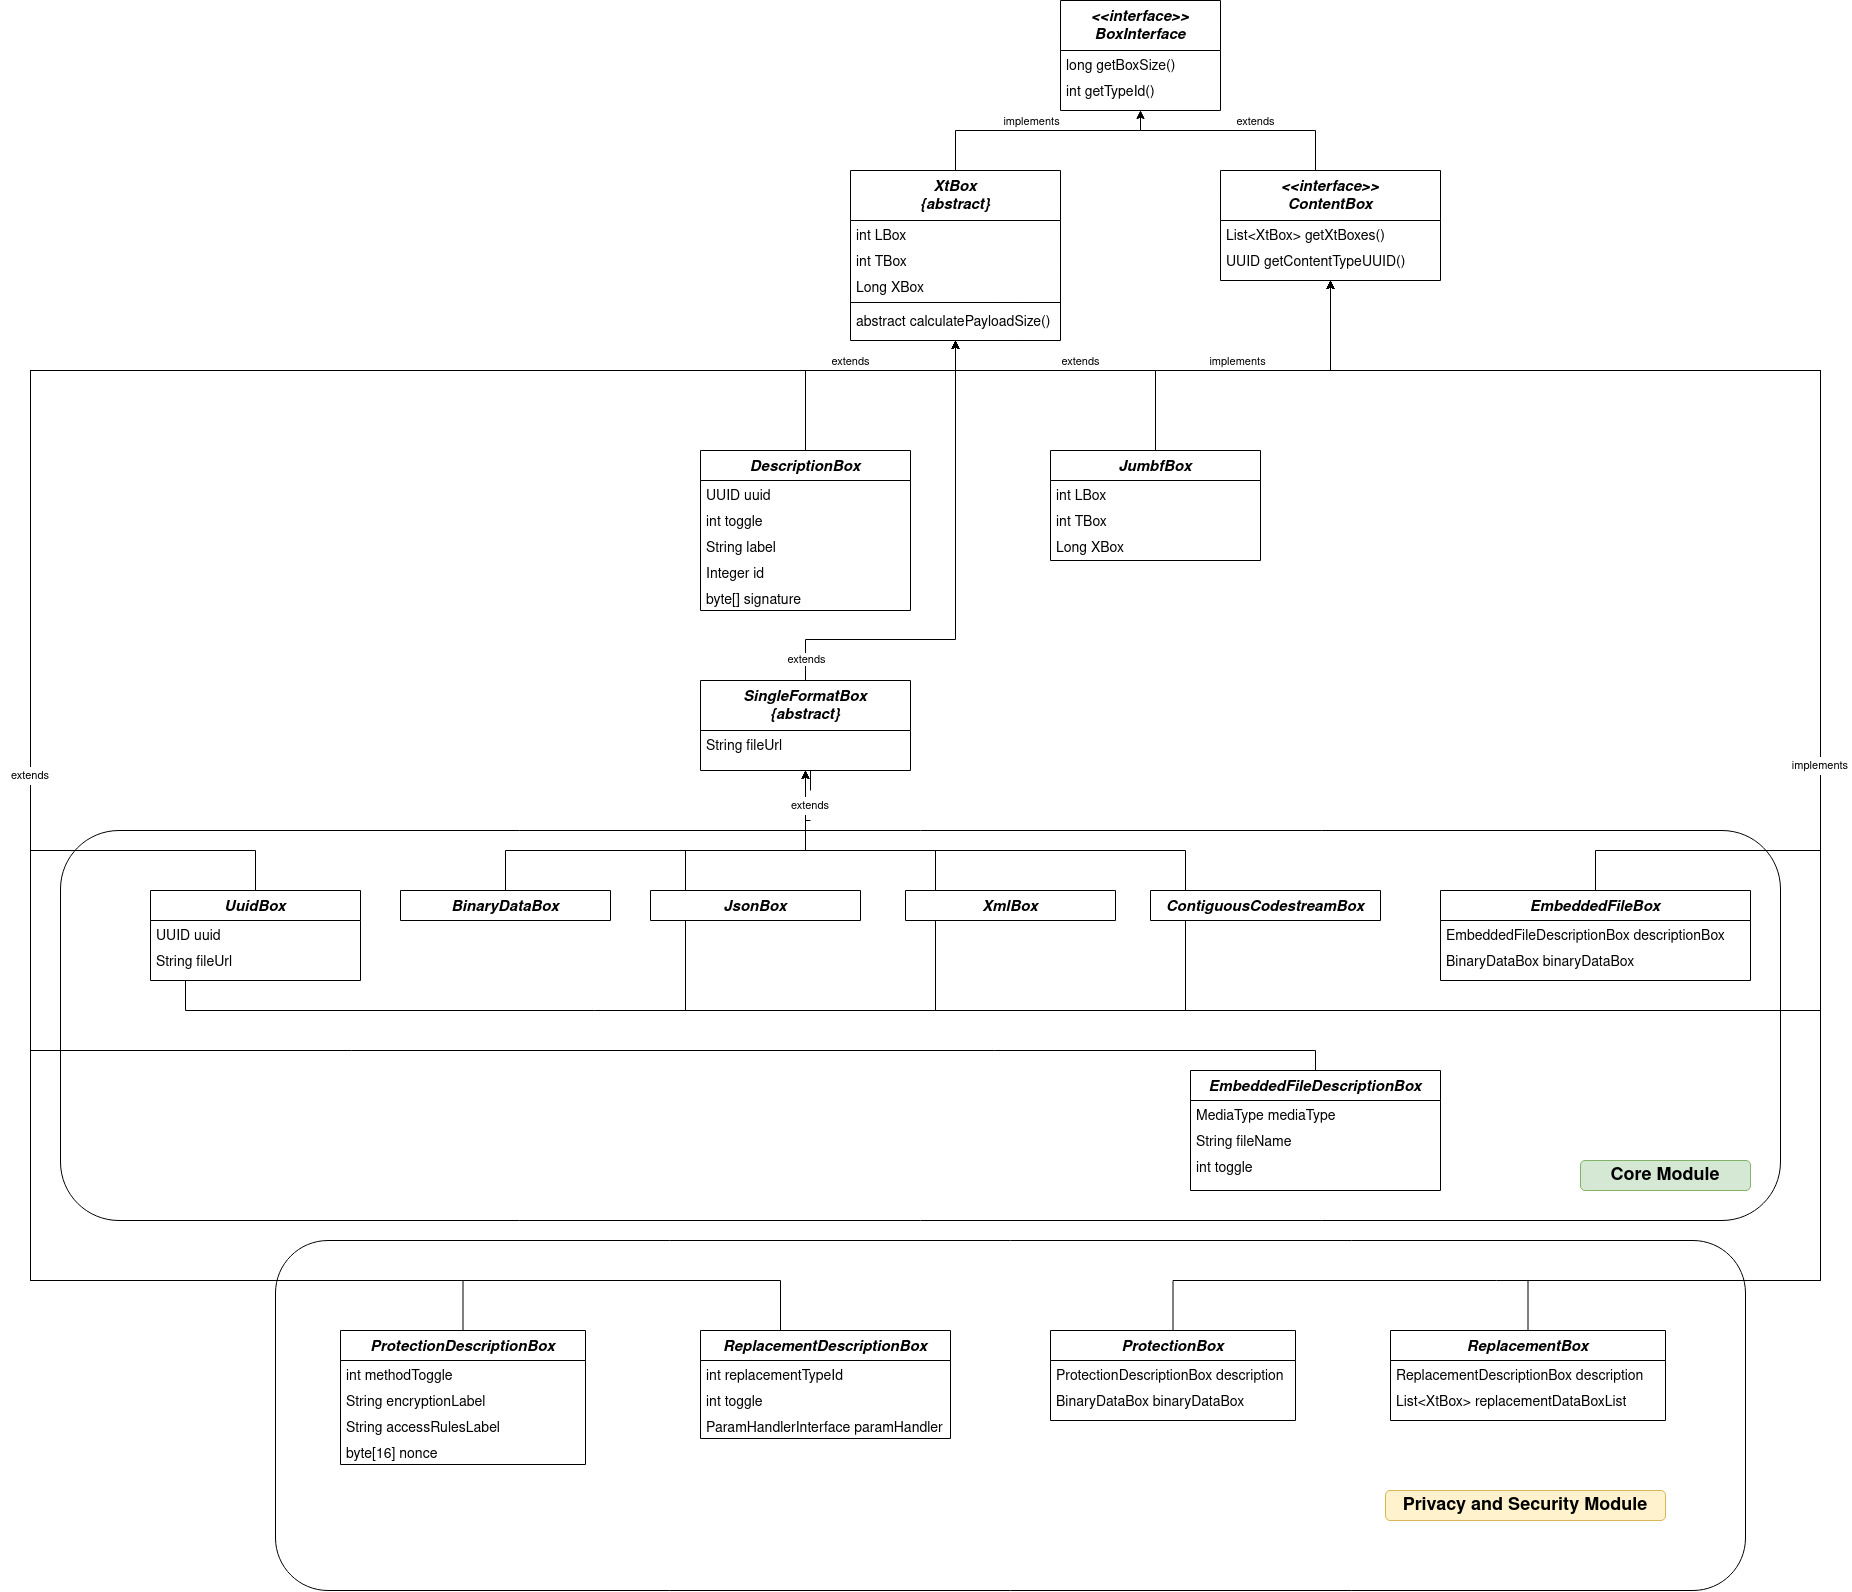
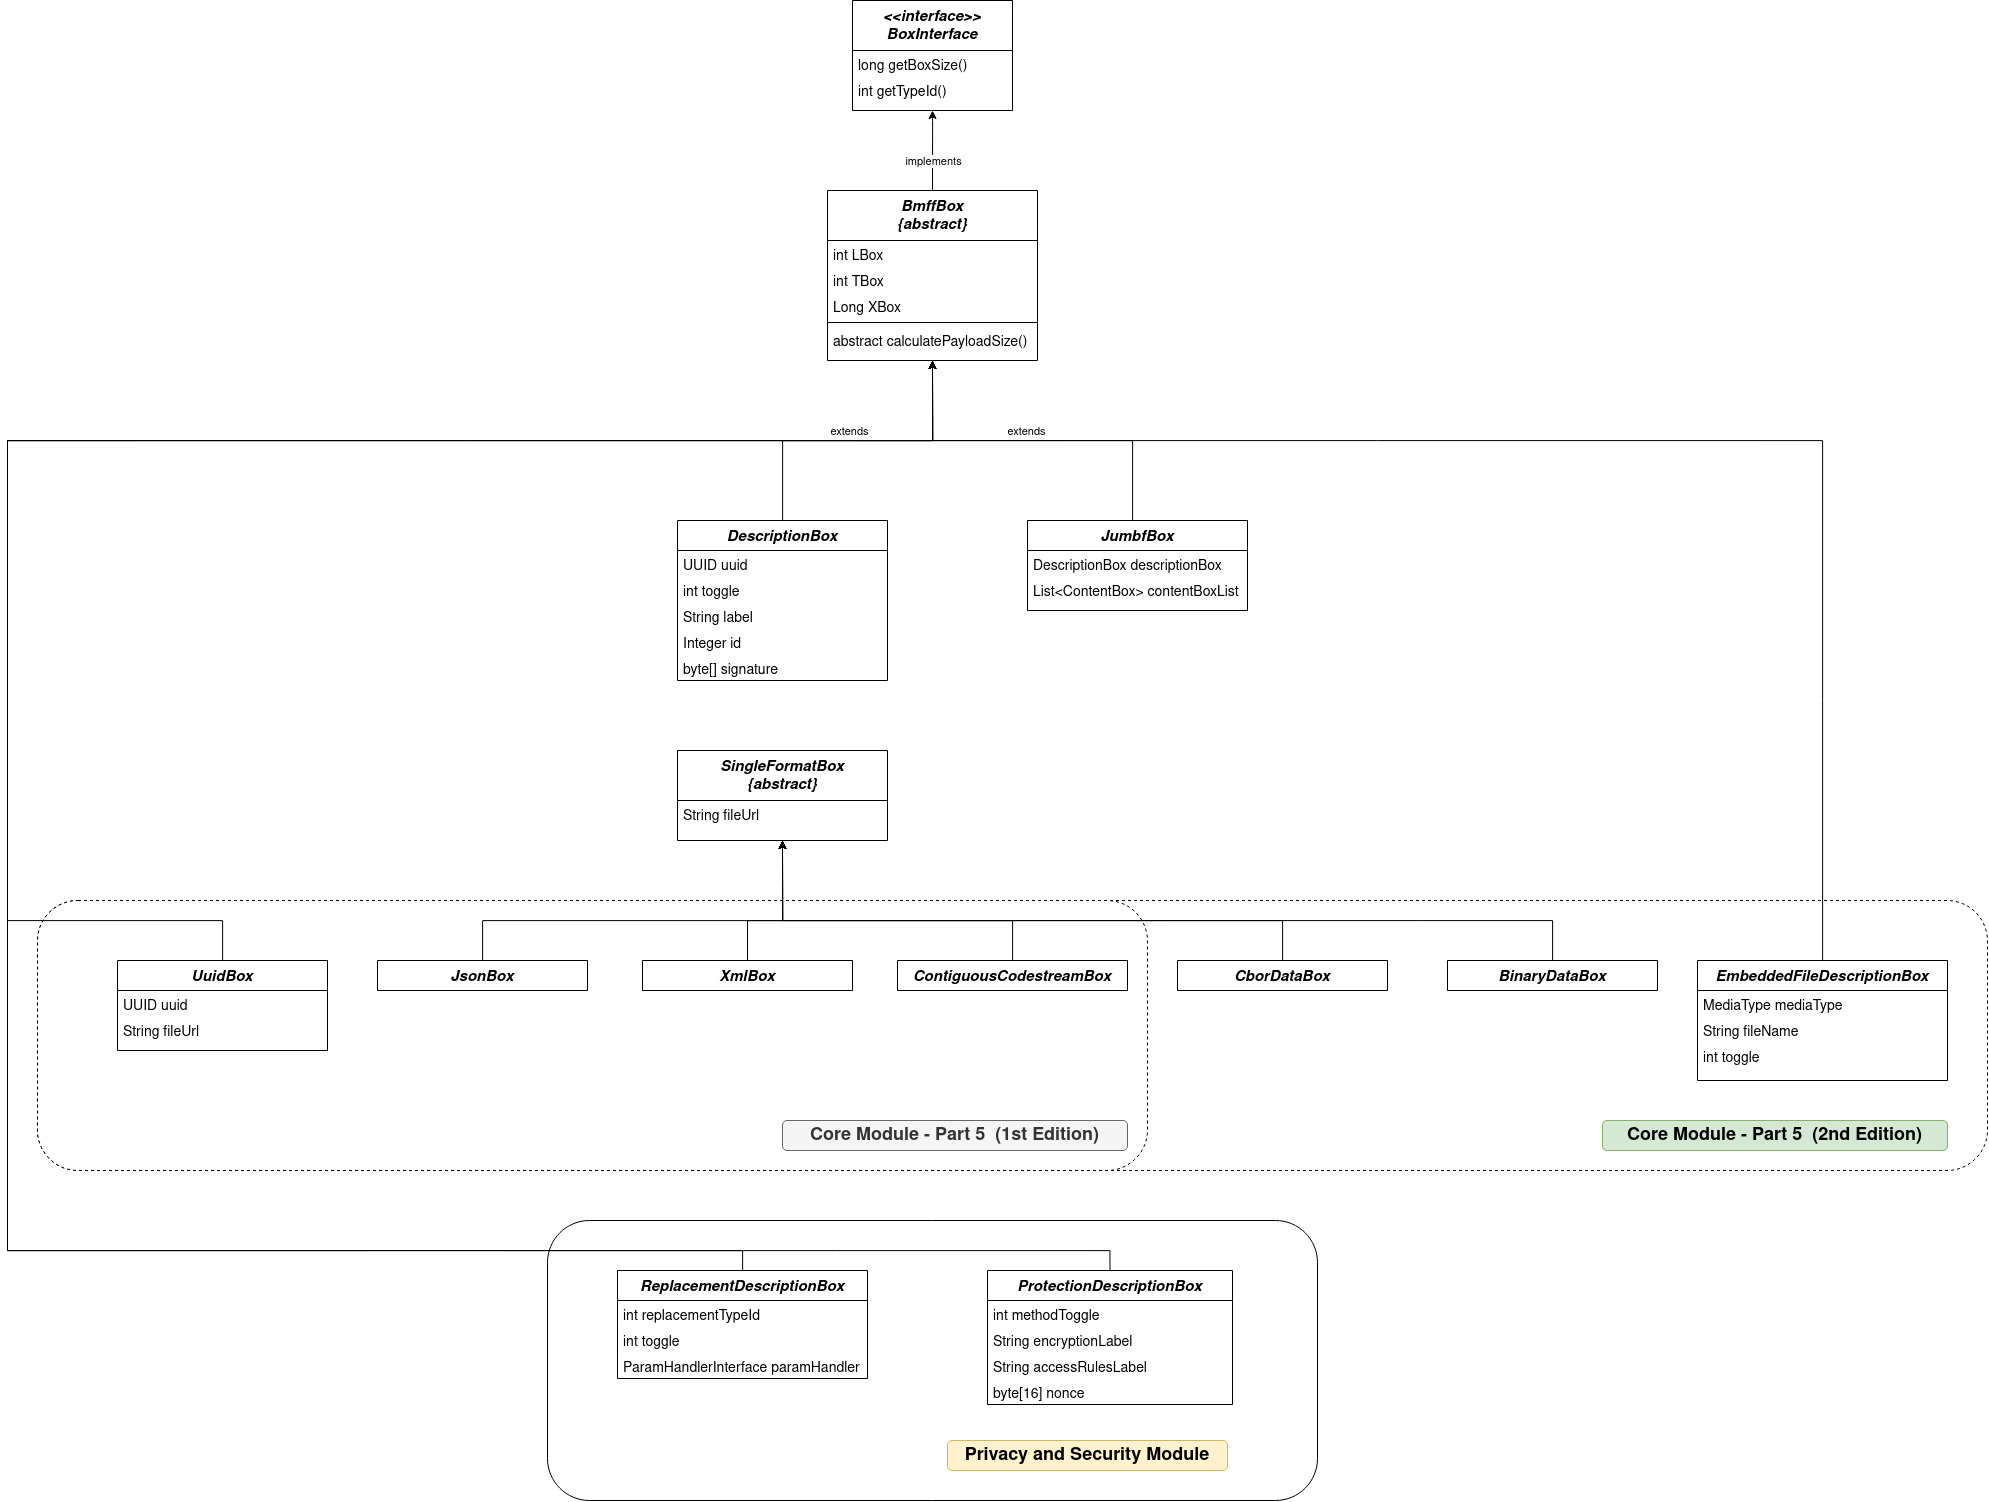
Update documentation in README files

diff --git a/README.md b/README.md
@@ -58,11 +58,16 @@ In the "example" directory you can find a demo application which shows how to us
 
 The whole JUMBF application (not only the one that appears on the demo) could be logically separated in independent layers each of whom is responsible for a specific application over JUMBF metadata. All these layers are strongly dependent on **core layer** which implements the basic JUMBF box definitions. Each layer can be defined in a separate package inside the jumbf package. In the jumbf package we could contain not only the core layer but also all the layers related to any application that needs to parse application-specific JUMBF boxes.
 
-In this design, the two main abstractions of a layer are the *entities* and the *services*. Each service is mapped to a specific entitity. An **entitity** describes the structure (i.e. fields) of its corresponding Box definition while a **service** defines all the necessary functionalities that need to be performed in this specific box. Any service that implements the BoxService interface shall implement three core methods: getServiceMetadata(), writeToJumbfFile() and parseFromJumbfFile(). For debugging and testing purposes we added a forth method, discoverBoxFromRequest, which defines a way to instantiate a JUMBF structure from a json request (i.e. through a REST request). 
+In this design, the two main abstractions of a layer are the *entities* and the *services*. Each service is mapped to a specific entitity. An **entitity** describes the structure (i.e. fields) of its corresponding Box definition while a **service** defines all the necessary functionalities that need to be performed in this specific box. Any service that implements the BoxService interface shall implement three core methods: getServiceMetadata(), writeToJumbfFile() and parseFromJumbfFile().
 
 The following diagram illustrates the entities structures. Privacy & Security module is depicted to show the extensibility of the classes. 
 
 ![UML Entities](./entities.jpg "Box class relationship")
+
+Finally, we need to define the JUMBF Box Content Types. A Content Type is defined based on the Content Type UUID that is defined in the JUMBF box's Description box. A ContentType class is a service which defines the way to parse/generate the Content Boxes (it could be more than one content boxes) that are specified in a Content Type JUMBF Box according to the standard.
+
+![Content Type UML Entities](./entities.jpg "Content Type class relationship")
+
 
 ### Implementing a BoxService
 A box is considered as a plain object (i.e entity) and all the functionalities are described in each corresponsing service class. A service is implemented as a Spring Bean. This allows us to easily discover the correct BoxService class that needs to be called depending on the type of box that we want to process. 

diff --git a/example/README.md b/example/README.md
@@ -1,0 +1,37 @@
+# JUMBF Reference software: Example
+
+## Table of Contents
+
+1. [Introduction](#intro)
+2. [How to Deploy](#deployment)
+
+## Introduction <a name="intro"></a>
+
+This submodule implements a demo application that demonstrates how to use the mipams-jumbf library. Specifically, this application defines endpoints that allows a user to parse and generate JUMBF boxes. In addition it provides a UI application to parse a JUMBF file.
+
+## Deploying <a name="deployment"></a>
+
+### Deploying demo server as standalone application
+
+To deploy the demo server as standalone application, follow the instructions in demo-server subdirectory.
+
+### Deploying UI application using docker
+
+In order to develop/deploy the application you simply need to download the following tools:
+
+  * Docker
+  * docker-compose
+
+Follow the instructions for your operation system. 
+
+In the docker subdirectory you may find the docker-compose.yml file that specifies the two services, namely demo-server and demo-client. To launch the application you need to execute the following command in the docker subdirectory:
+
+```
+docker-compose up
+```
+
+This will download the necessary docker images, build the images for demo-server and demo-client and launch the instances. To access the UI application, open a browser and visit the following URL:
+
+```
+http://localhost:3001
+```
